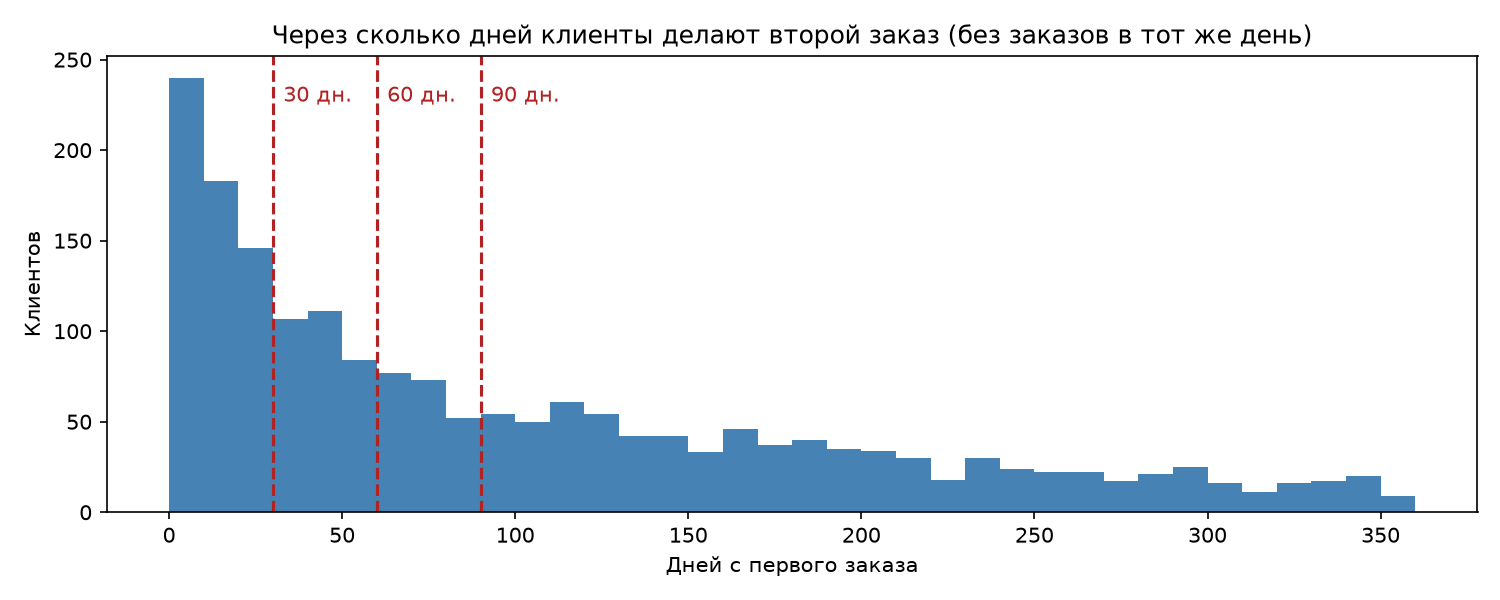
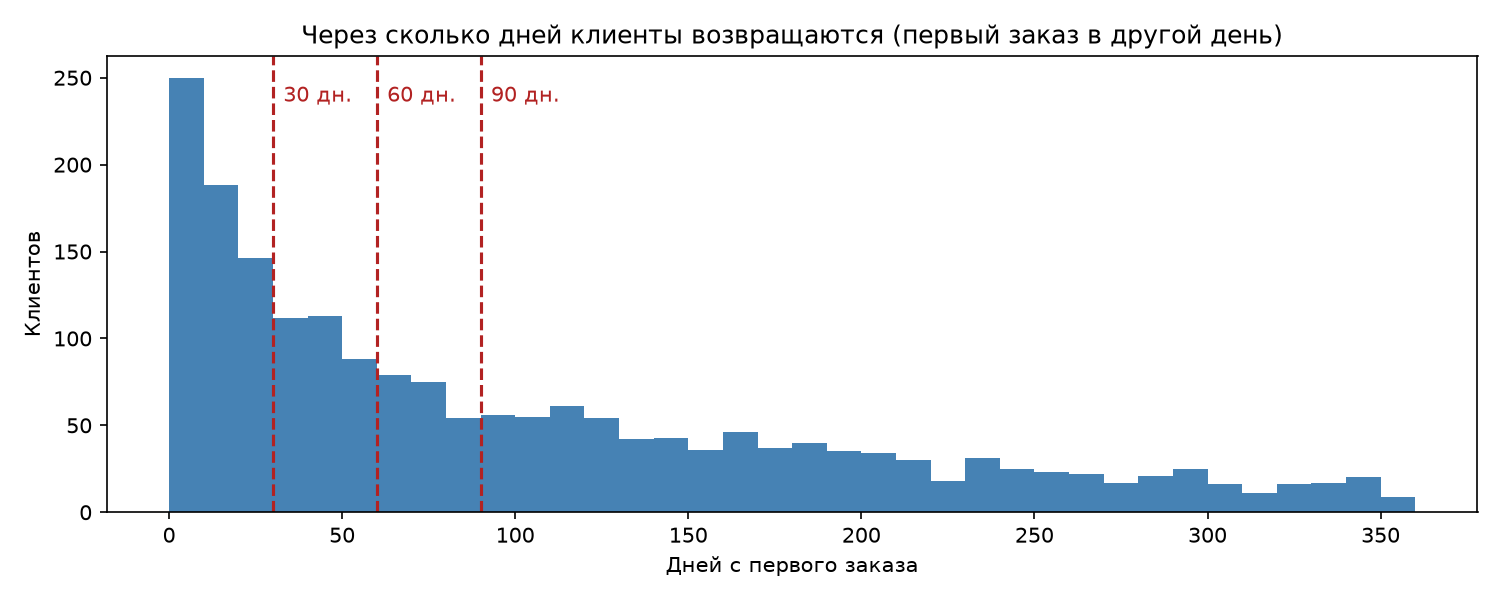
Refine repeat-purchase definition and test rationale (v2.1)
- Count a return as the first order on another day, even after a
  same-minute split order (2,029 returners, median 75 days, baseline
  1.29%); show the result is robust to the threshold (71 days at 1 hour)
- Report 97.9% one-time customers and explain why neither 97.0% (by
  orders) nor 98.2% (by calendar months) is right
- Explain that doubling is the minimum detectable effect, not a
  business target, and estimate its value (~+1.3% revenue)
- Put new-customer acquisition first in the recommendations: its
  decline costs ~10x more than the best case for reminders

diff --git a/README.md b/README.md
@@ -12,11 +12,13 @@
 6. 📝 Отчёт и рекомендации для продакт-менеджера
 
 ## Главные выводы
-- **Клиенты не возвращаются.** 97% покупателей делают один заказ. Retention первого месяца — **0,48%**, дальше кривая выходит на плато около 0,2%. PMF с точки зрения удержания нет.
+- **Клиенты не возвращаются.** 97,9% покупателей ни разу не пришли снова. Retention первого месяца — **0,48%**, дальше кривая выходит на плато около 0,2%. PMF с точки зрения удержания нет.
 - **Выручка держится на новых клиентах.** На повторные заказы приходится всего 1,8% выручки. Выручка росла весь 2017 год вместе с притоком новых клиентов, а с января 2018 стоит на уровне 0,84–0,99 млн BRL в месяц.
-- **Приток новых клиентов снижается:** с марта по август 2018 их стало примерно на 10% меньше.
+- **Приток новых клиентов снижается:** с марта по август 2018 их стало примерно на 10% меньше. Это стоит около 120 тыс. BRL выручки в месяц.
 - **Средний чек стабилен** (около 137 BRL), проблема не в нём.
-- **Рекомендация:** email/push-напоминание после первого заказа. Срок отправки (30 или 60 дней) проверить в A/B/C-тесте: вернувшиеся клиенты приходят в среднем через 76 дней. Основная метрика — доля новых клиентов со вторым заказом за 90 дней, цель — рост с 1,25% до 2,5%.
+- **Рекомендации:**
+  1. Главное — найти, в каких каналах привлечения просел приток новых клиентов (нужны данные маркетинга).
+  2. Параллельно — дешёвый A/B/C-тест email/push-напоминания после первого заказа (через 30 или 60 дней): вернувшиеся клиенты приходят в среднем через 75 дней. Основная метрика — доля новых клиентов, вернувшихся за 90 дней, цель — удвоение с 1,29% до 2,6%. Даже такой успех даст около +1,3% выручки, поэтому это дополнение, а не решение.
 
 ![Retention по когортам](images/retention_heatmap.png)
 ![Дашборд ключевых метрик](images/metrics_dashboard.png)
@@ -29,7 +31,9 @@
 | Retention первого месяца | 5,45% | **0,48%** | Простое среднее по когортам: когорта декабря 2016 из одного клиента с retention 100% весила как когорта из 7 000 человек. Теперь среднее взвешенное. |
 | Период анализа | все месяцы, только `delivered` | январь 2017 — август 2018, все состоявшиеся заказы | 2016 год и сентябрь–октябрь 2018 неполные, а недоставленные заказы занижали конец периода. |
 | Остановка роста выручки | предположение | подтверждена | Разница между «delivered» и всеми заказами 1–3%, плато длится 8 месяцев. |
-| Время до повторного заказа | 26 дней | **76 дней** | Медиана считалась только по вернувшимся в соседний календарный месяц, где разрыв не больше двух месяцев. По всем вернувшимся выходит 28 дней, но только из-за заказов, оформленных в те же минуты, что и первый. Без них медиана 76 дней. |
+| Доля клиентов с одним заказом | 98,2% | **97,9%** | Первая версия считала календарные месяцы и не видела возвратов в том же месяце. Подсчёт по заказам (97,0%) ошибается в другую сторону: считает возвратом покупку, записанную несколькими заказами. Правильно — клиенты, ни разу не вернувшиеся в другой день. |
+| Время до повторного заказа | 26 дней | **75 дней** | Медиана считалась только по вернувшимся в соседний календарный месяц, где разрыв не больше двух месяцев. По всем вернувшимся выходит 28 дней, но только из-за заказов, оформленных в те же минуты, что и первый. Без них медиана 75 дней. |
+| Главный рычаг роста | напоминания | приток новых клиентов | Эффект напоминаний в деньгах: даже удвоение возвратов — около +1,3% выручки, а падение притока стоит примерно в 10 раз больше. |
 
 ## Данные
 [Brazilian E-Commerce Public Dataset by Olist](https://www.kaggle.com/datasets/olistbr/brazilian-ecommerce) (Kaggle): заказы, клиенты, товарные позиции за 2016–2018 годы. Используются три таблицы:
